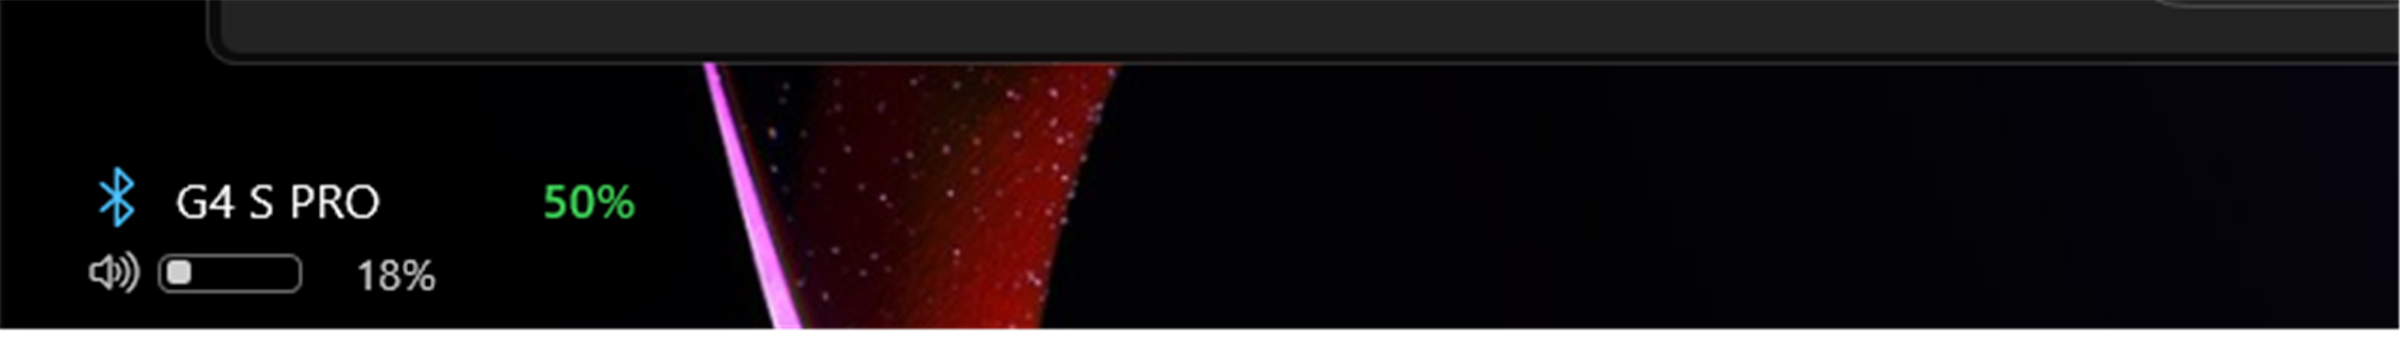
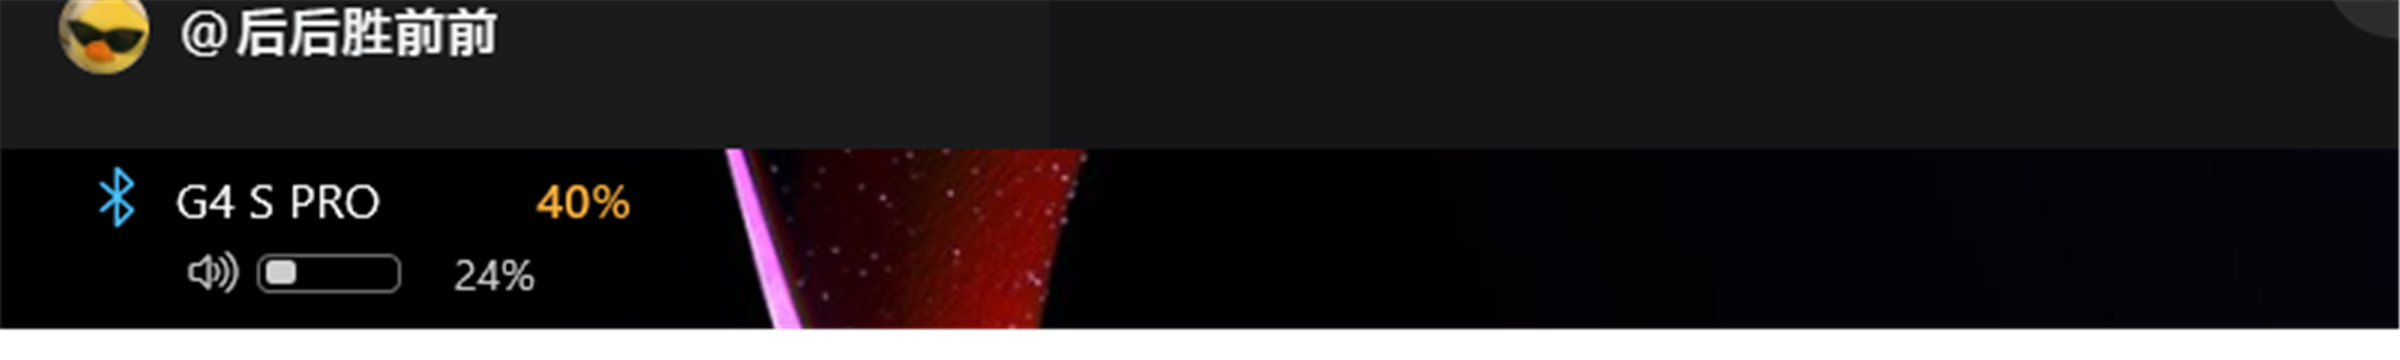
style: 小岛音量行居中，更新安装包与截图

diff --git a/BluetoothBatteryView.cs b/BluetoothBatteryView.cs
@@ -154,7 +154,12 @@ internal sealed class BluetoothBatteryView : UserControl, IMorphView
             Text = string.Empty,
         };
 
-        _volumeRow = new Grid { ColumnSpacing = 5, VerticalAlignment = VerticalAlignment.Center };
+        _volumeRow = new Grid
+        {
+            ColumnSpacing = 5,
+            VerticalAlignment = VerticalAlignment.Center,
+            HorizontalAlignment = HorizontalAlignment.Center,
+        };
         _volumeRow.ColumnDefinitions.Add(new ColumnDefinition { Width = GridLength.Auto });
         _volumeRow.ColumnDefinitions.Add(new ColumnDefinition { Width = GridLength.Auto });
         _volumeRow.ColumnDefinitions.Add(new ColumnDefinition { Width = GridLength.Auto });
